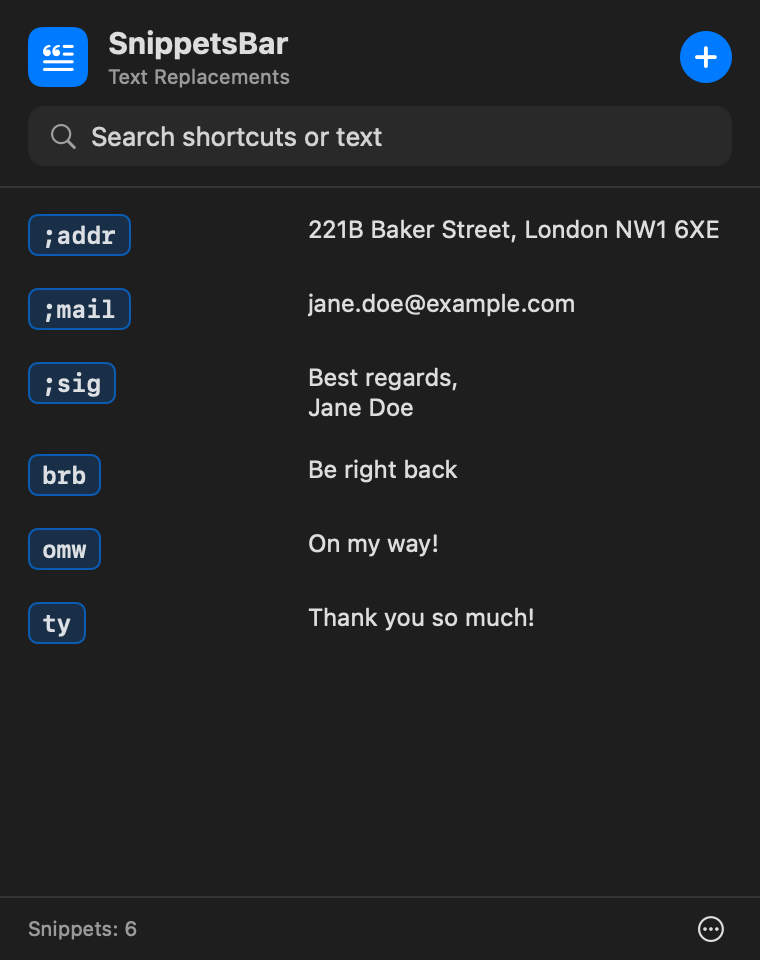
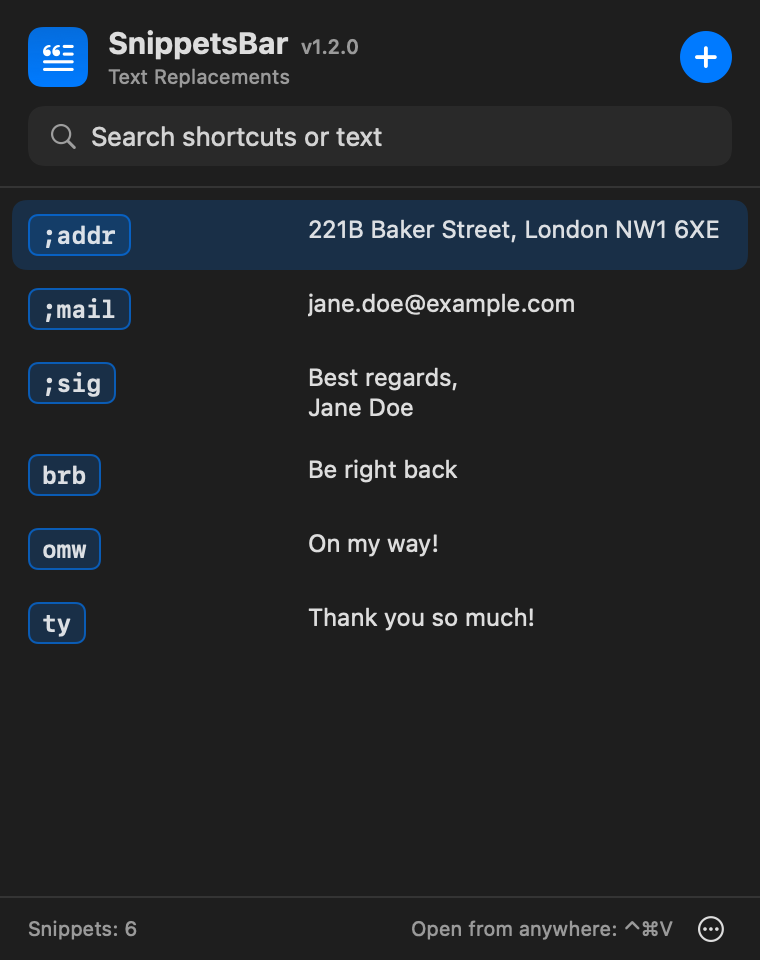
README: refresh screenshots and add the Settings window
Rendered from the current code in English: app icon and version in the
header, quick pick hint in the footer, editor with the trash button,
import summary, and the new Settings window.

diff --git a/README.md b/README.md
@@ -36,6 +36,11 @@ Requires macOS 13 (Ventura) or later.
 | **Editing a snippet** | **Importing a .plist** |
 | <img src="docs/screenshots/editor.png" width="380" alt="Editing the ;sig snippet"> | <img src="docs/screenshots/import.png" width="380" alt="Import summary: imported 2, replaced 1, skipped 1"> |
 
+<p align="center">
+  <img src="docs/screenshots/settings.png" width="460" alt="Settings window: launch at login, quick pick shortcut, version and updates"><br>
+  <em>Settings (⌘,)</em>
+</p>
+
 ## Why SnippetsBar?
 
 I was looking for a **simple, free and open-source alternative to aText** and other
